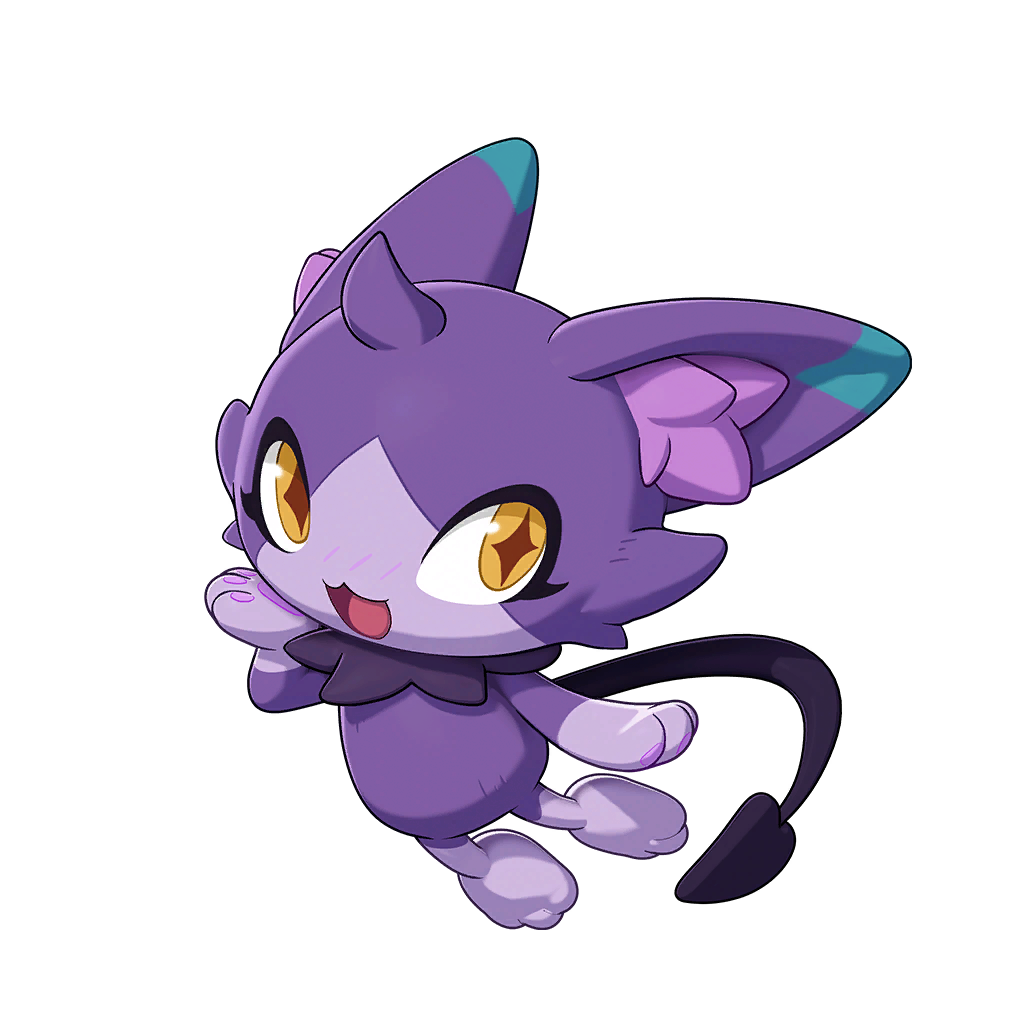
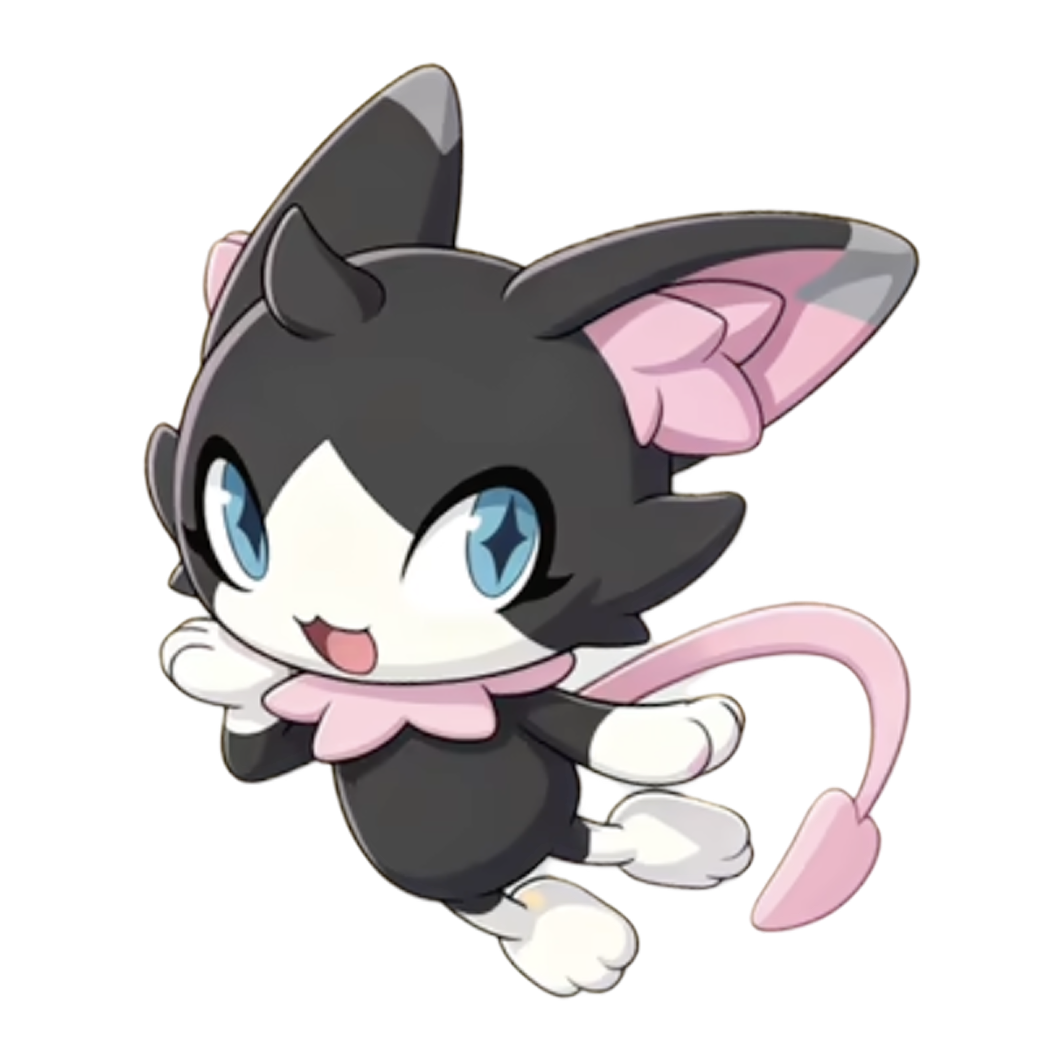
fix: 补全 S2 精灵异色图 + 更新 local-assets 白名单，确保 SpiritAvatar 使用本地异色图

diff --git a/src/data/local-assets.js b/src/data/local-assets.js
@@ -47,6 +47,25 @@ export const LOCAL_SPIRIT_FILES = new Set([
   '高山地皇家狮鹫',
   '蹦蹦种子象牙球形态',
   '仪使者',
+  // ─── S2「狂欢怪谈」赛季精灵 ───────────────────────────────────────────
+  '恶魔叮',
+  '菊花梨',
+  '公平鸽',
+  '灵狐',
+  '嘟嘟煲',
+  '幽影树',
+  '炫光迪迪',
+  '小鼓象',
+  '加油海葵',
+  // 奇遇精灵（s2异色精灵图同家族精灵，已按代码名复制）
+  '小丑公爵',
+  '烟花伯爵',
+  '帅帅魔偶',
+  '音碟吼',
+  '咕德帽帽',
+  // 战令精灵
+  '雪怪',
+  '爆焰喷喷',
 ]);
 
 /** 本地 public/fruits/ 下已有的文件名（不含 .png） */
